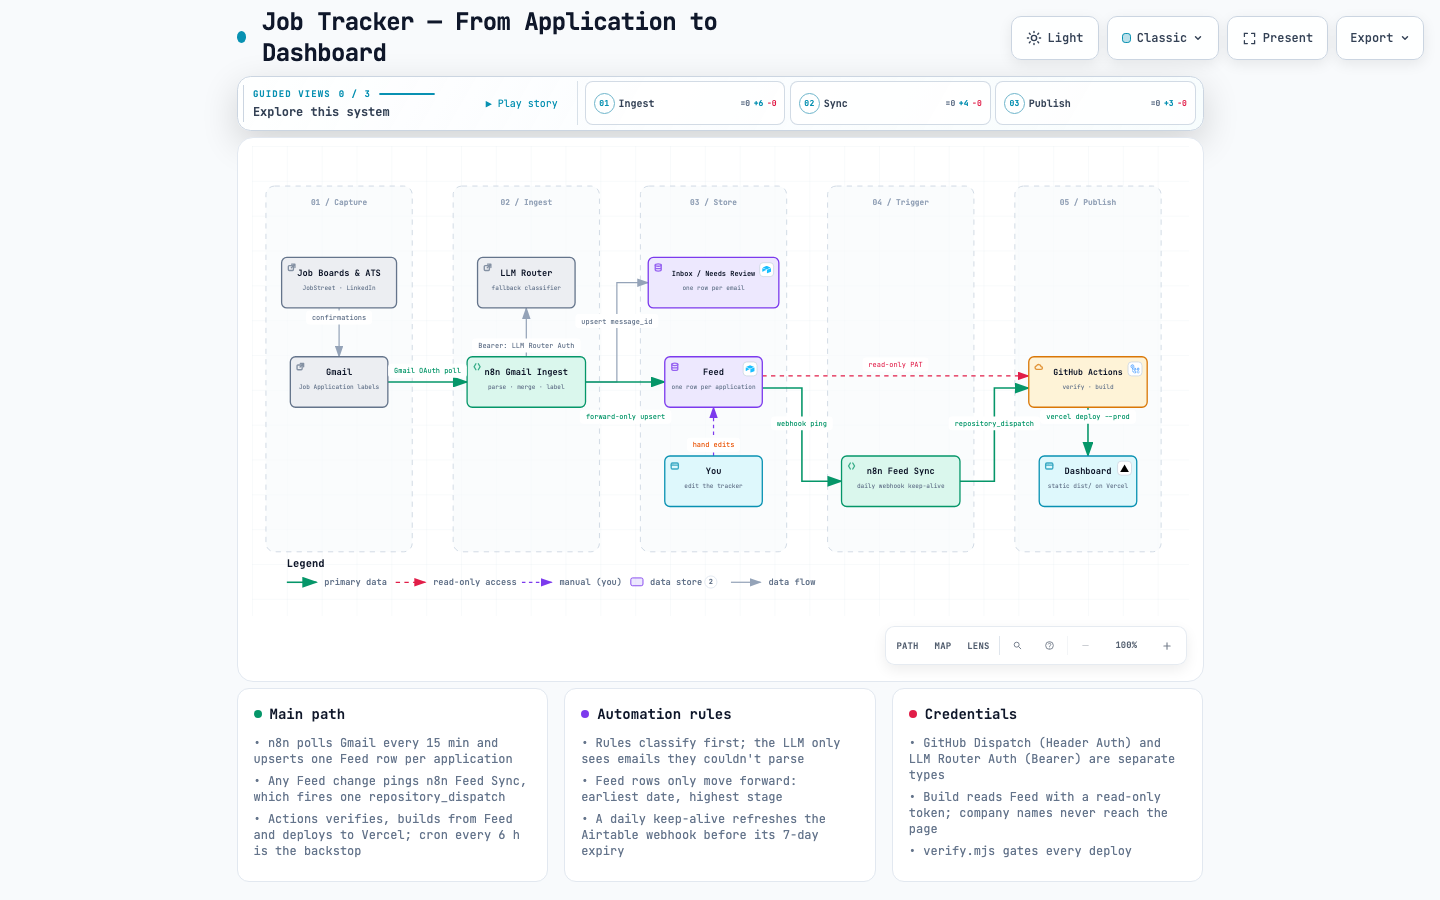
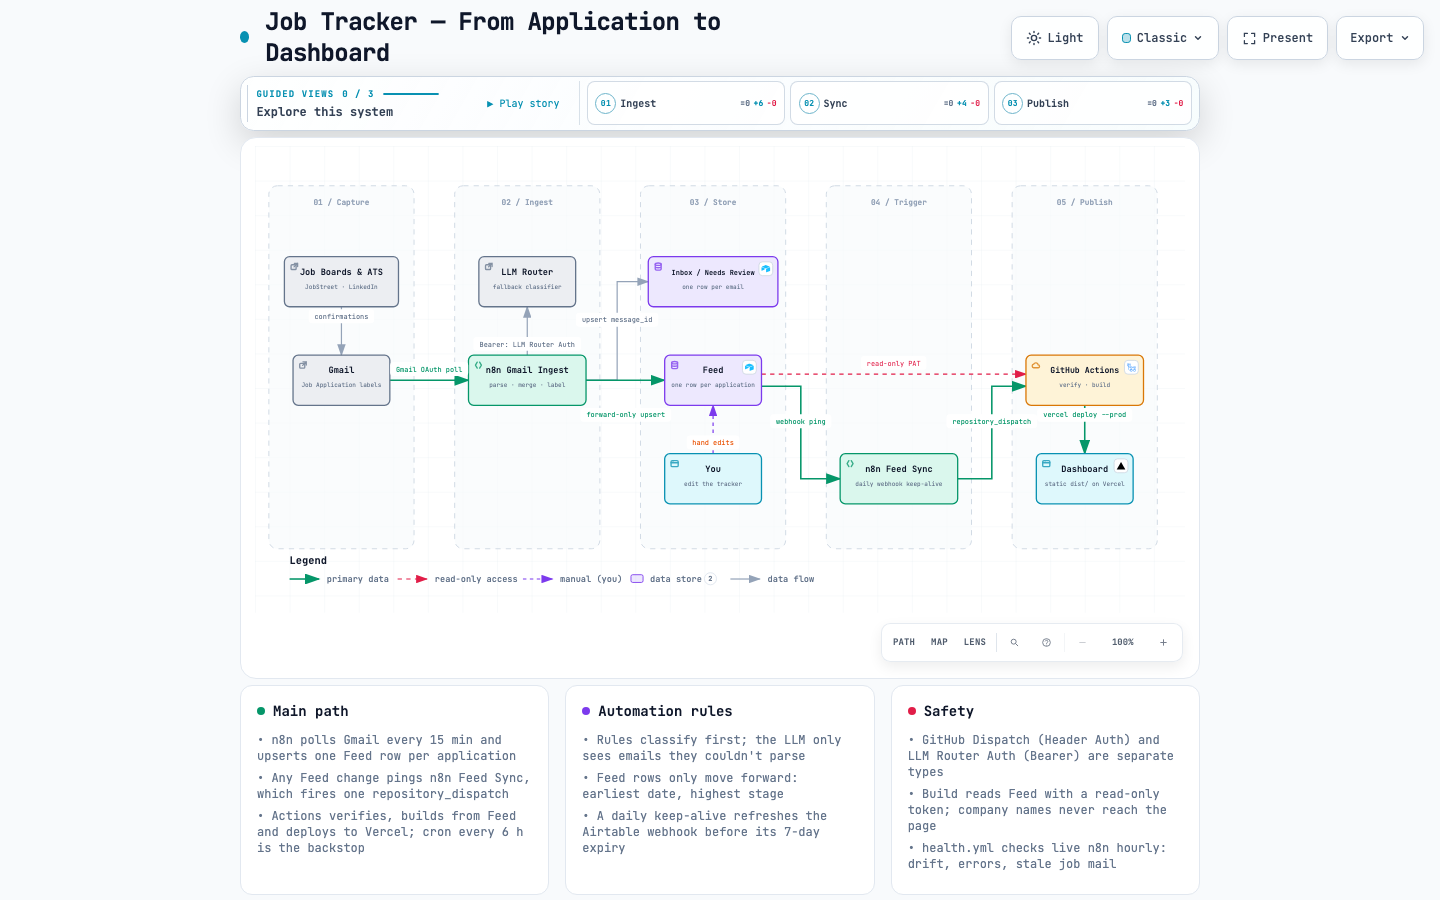
Diagram: note the hourly n8n health check

diff --git a/docs/system-overview.html b/docs/system-overview.html
@@ -5488,12 +5488,12 @@
       <div class="card">
         <div class="card-header">
           <div class="card-dot rose"></div>
-          <h3>Credentials</h3>
+          <h3>Safety</h3>
         </div>
         <ul>
           <li>&bull; GitHub Dispatch (Header Auth) and LLM Router Auth (Bearer) are separate types</li>
           <li>&bull; Build reads Feed with a read-only token; company names never reach the page</li>
-          <li>&bull; verify.mjs gates every deploy</li>
+          <li>&bull; health.yml checks live n8n hourly: drift, errors, stale job mail</li>
         </ul>
       </div>
     </div>
